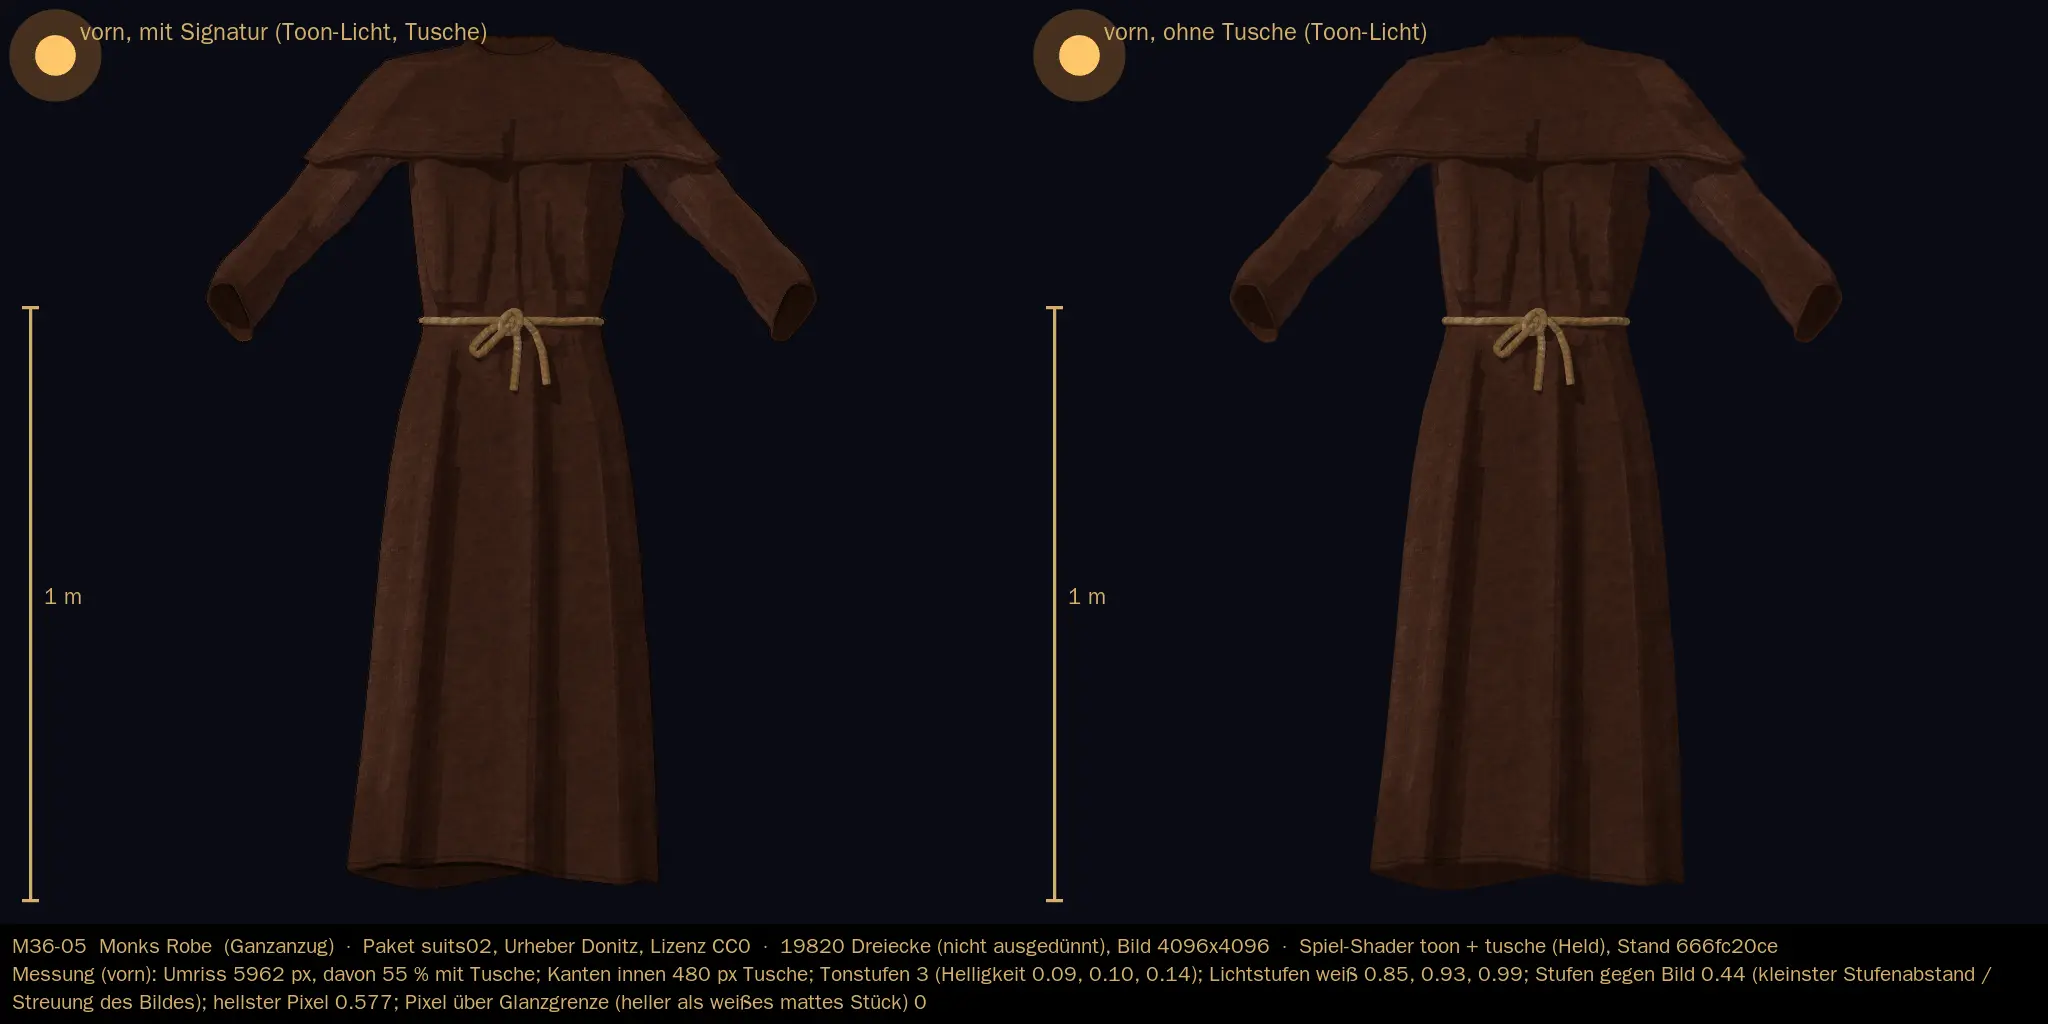
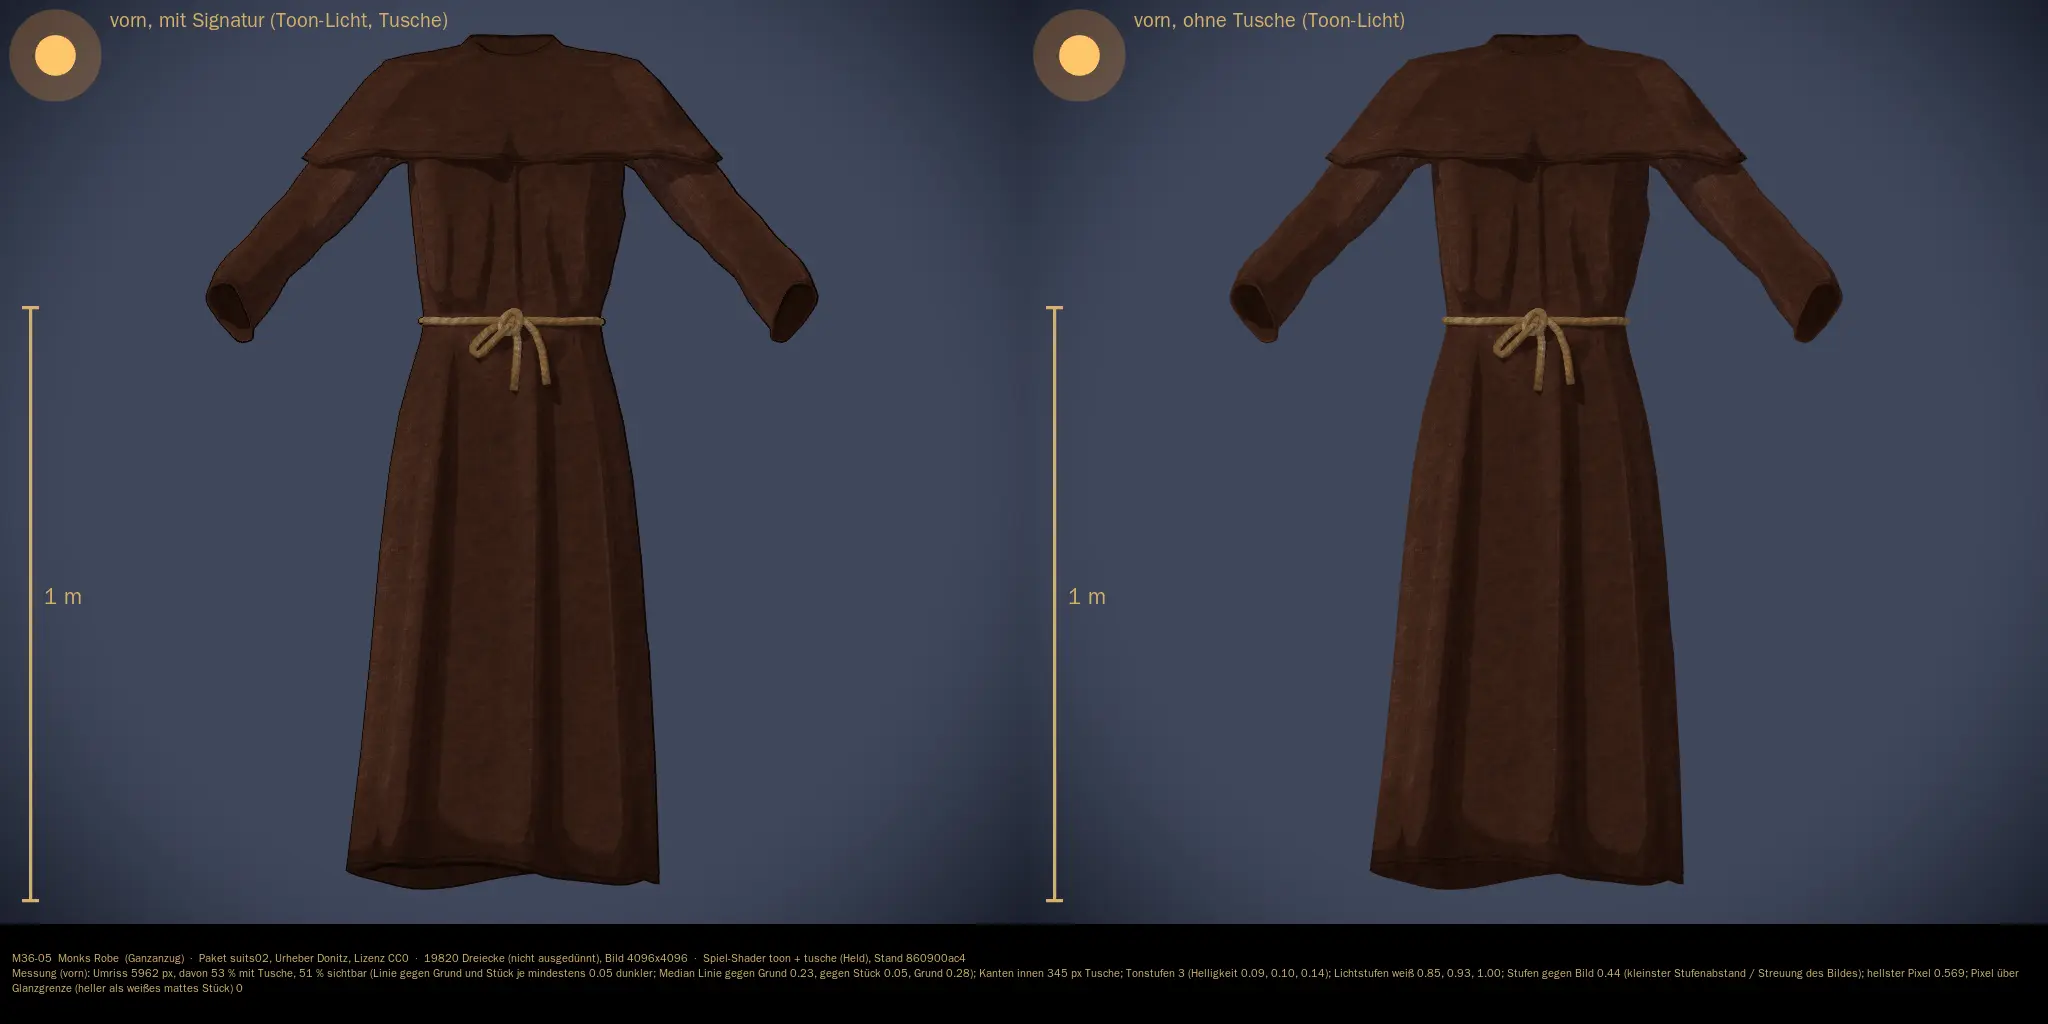
2034 Teil 0: Probe-Lauf 2 an 860900ac4 (Robe, Stiefel, Helm), alt gegen neu, Messung; Rand passt sich an
Claude-Session: https://claude.ai/code/session_01Hmoj76crkBHd9ELteDQFD4

diff --git a/docs/entwurf/2034-uebergabe.md b/docs/entwurf/2034-uebergabe.md
@@ -25,3 +25,7 @@ Laufbremse: Lauf 1 für 2034 ist verbraucht, nächster Bildlauf erst nach Prüfe
 4. Höhe: Paare (Stiefel, Handschuhe) zusammengeschoben; M57-09 rechnerisch 42 % → 86 %. Je Stück `fuellt.tsv`, `UNTER80` gemeldet. Flache, breite Stücke (Hutkrempe, Handschuhe in T-Pose) können bei 2048×1024 mit vorn und Seite unter 80 % bleiben; dann Frage.
 5. Häute: Bild mit Randtext und Vermerk im Skript ergänzt (9. Argument GLB-Ordner).
 Offen: Probe-Lauf (Robe M36-05, Stiefel M57-09, dazu M29-04) nach Prüfer-Ja; bpy-venv ~/bl fehlt in diesem Behälter (neu anlegen).
+
+## Nachtrag 19:52 (Edda): Probe-Lauf 2 (Sokrates 19:44) an 860900ac4
+
+Lauf: abzug_mh.py (bpy 5.2.3, venv ~/bl neu) NUR=M29-04,M36-05,M57-09, dann `SIGNATUR=1 … abzug_2034.gd` (xvfb, OpenGL 3 nach Vulkan-Fehlschlag wie zuvor), Bilder `probe/M29-04|M36-05|M57-09.webp`, alt gegen neu `probe/M36-05_alt_neu.webp`, `probe/M57-09_alt_neu.webp`, Messung `probe/messung-860900ac4.json`, MARKE `probe/marke-860900ac4.txt`. Nach dem Lauf nur das Zusammensetzen geändert (Schrift: Ansichtszeile kleiner, Rand passt sich dem Messsatz an; Lizenz der Paketseite aus der Liste). Wartet auf Prüfer; Abzug erst nach Ja.
